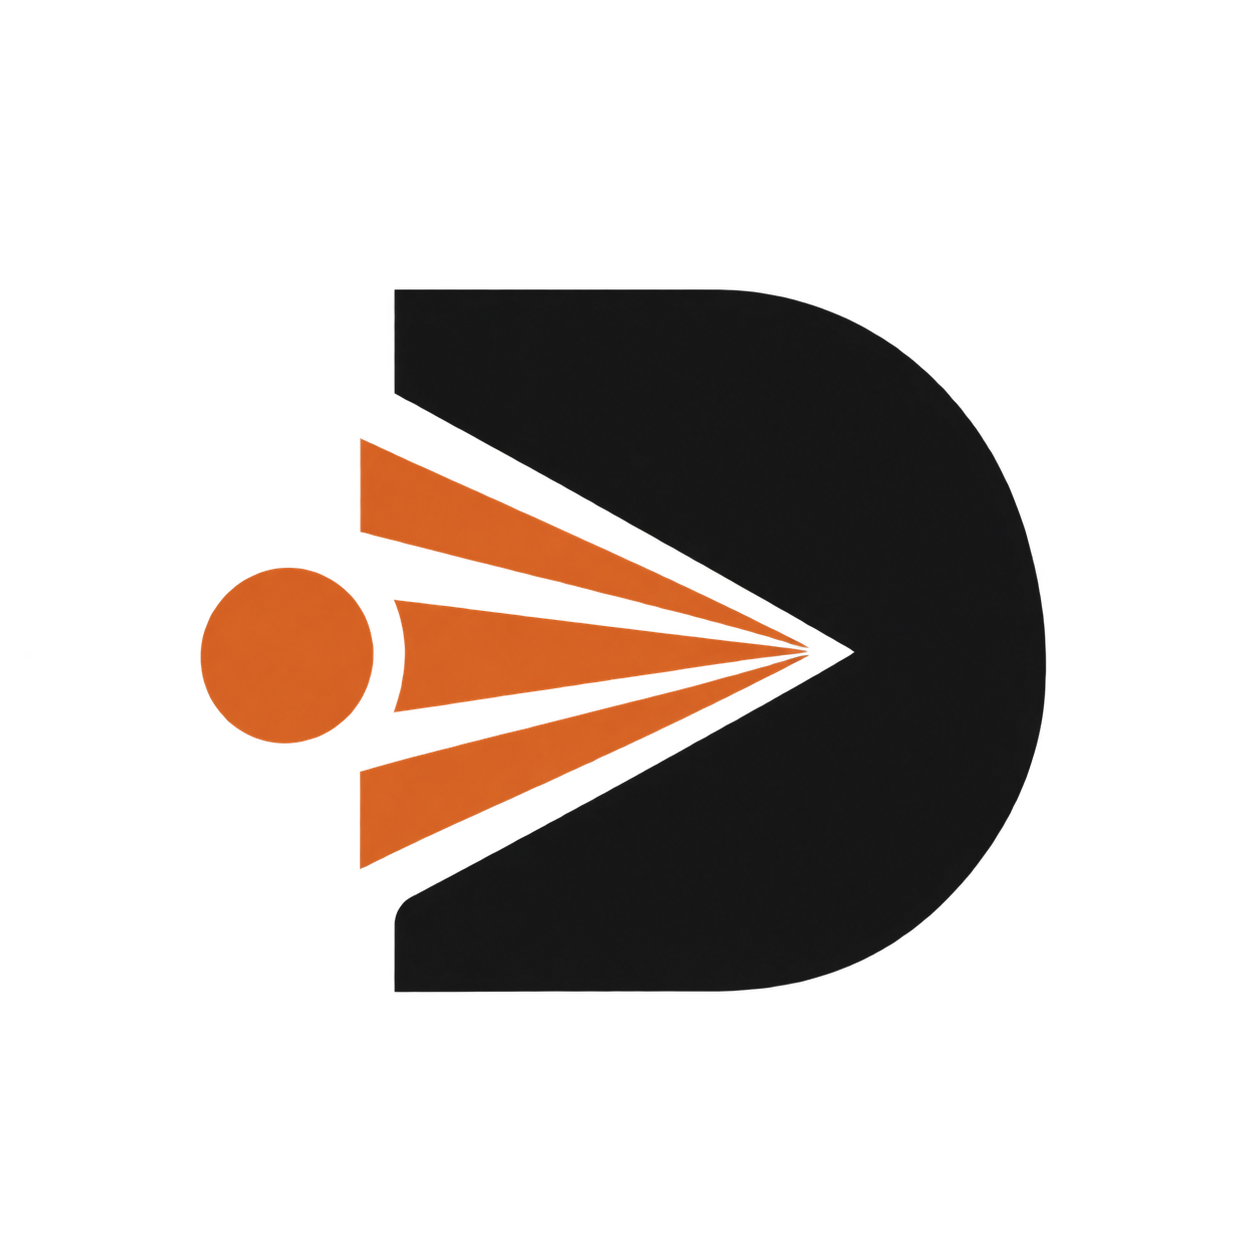
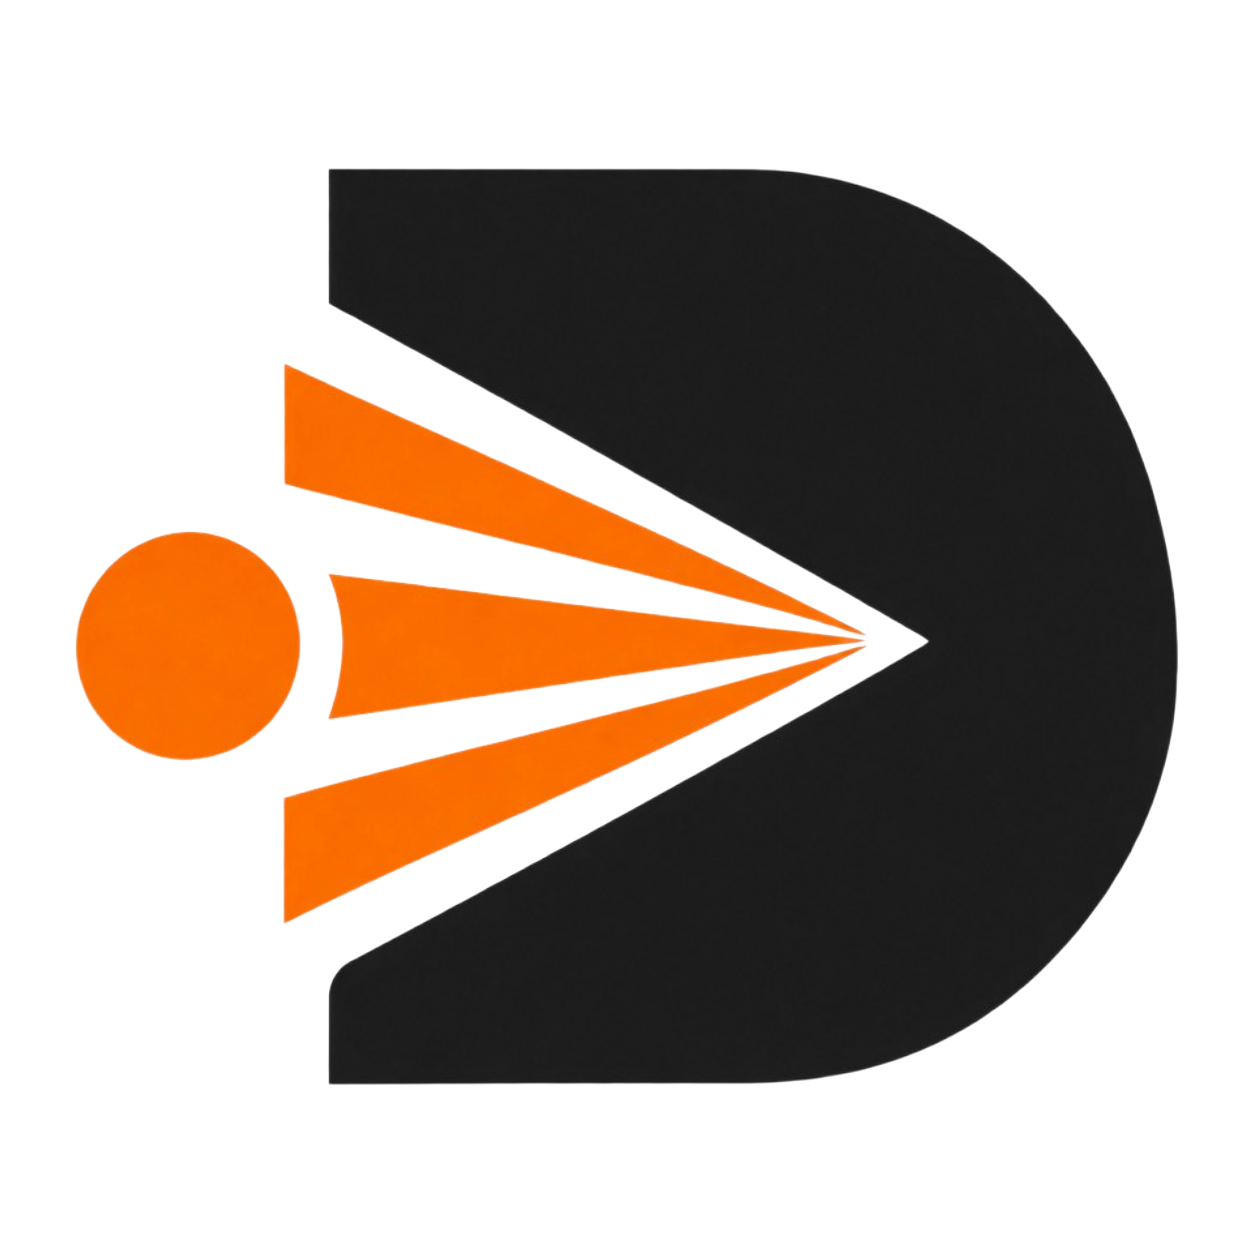
Refine navbar branding and tighten Setup screen bottom spacing
Swap navbar icon to the bold mark at 24px with optical alignment
correction against the wordmark, regenerate favicons from the bold
mark for better small-scale legibility, and reduce padding/margins
around the Setup screen CTA/helper group so it no longer sits flush
against the viewport bottom on common desktop heights.

Changed region(s): [[0.0622, 0.1244, 0.9641, 0.8708]]

diff --git a/src/screens/SetupScreen.tsx b/src/screens/SetupScreen.tsx
@@ -92,12 +92,12 @@ export function SetupScreen() {
   return (
     <main className="w-full pt-20 bg-surface min-h-[calc(100vh-140px)]">
       <div className="relative w-full overflow-hidden">
-        <div className="max-w-[840px] mx-auto px-margin-mobile md:px-margin-tablet lg:px-margin py-10">
+        <div className="max-w-[840px] mx-auto px-margin-mobile md:px-margin-tablet lg:px-margin pt-8 pb-16">
           <div className="flex flex-col items-center text-center">
             <h1 className="font-serif text-display-mobile md:text-display text-on-surface tracking-tight mb-2">
               What do you want to stay informed about?
             </h1>
-            <p className="font-serif text-body-lg text-on-surface-variant max-w-[620px] mb-10 leading-relaxed">
+            <p className="font-serif text-body-lg text-on-surface-variant max-w-[620px] mb-8 leading-relaxed">
               Describe the topics and stories you care about in plain words. Your Brief
               will focus on the topics and developing stories that matter to you.
             </p>
@@ -179,7 +179,7 @@ export function SetupScreen() {
               </div>
             )}
 
-            <div className="flex flex-col items-center gap-4 mb-10">
+            <div className="flex flex-col items-center gap-4 mb-6">
               {profile ? (
                 <div className="flex flex-wrap items-center justify-center gap-4">
                   <button

diff --git a/index.html b/index.html
@@ -3,9 +3,9 @@
   <head>
     <meta charset="UTF-8" />
     <meta name="viewport" content="width=device-width, initial-scale=1.0" />
-    <link rel="icon" type="image/png" sizes="64x64" href="/favicon-64x64.png?v=4" />
-    <link rel="icon" type="image/png" sizes="32x32" href="/favicon-32x32.png?v=4" />
-    <link rel="icon" type="image/png" sizes="16x16" href="/favicon-16x16.png?v=4" />
+    <link rel="icon" type="image/png" sizes="64x64" href="/favicon-64x64.png?v=5" />
+    <link rel="icon" type="image/png" sizes="32x32" href="/favicon-32x32.png?v=5" />
+    <link rel="icon" type="image/png" sizes="16x16" href="/favicon-16x16.png?v=5" />
     <link rel="preconnect" href="https://fonts.googleapis.com" />
     <link rel="preconnect" href="https://fonts.gstatic.com" crossorigin />
     <link

diff --git a/src/components/AppHeader.tsx b/src/components/AppHeader.tsx
@@ -34,10 +34,10 @@ export function AppHeader() {
       <div className="h-20 max-w-[1440px] mx-auto px-margin-mobile md:px-margin-tablet lg:px-margin flex items-center justify-between gap-6">
         <span className="flex items-center gap-2">
           <img
-            src="/brand/dispatch-mark-primary.png"
+            src="/brand/dispatch-mark-bold.png"
             alt=""
             aria-hidden="true"
-            className="h-5 w-5 object-contain shrink-0"
+            className="h-6 w-6 object-contain shrink-0 -translate-y-[3px]"
           />
           <span className="font-serif text-headline-sm text-on-surface tracking-tight uppercase leading-none">
             DISPATCH
